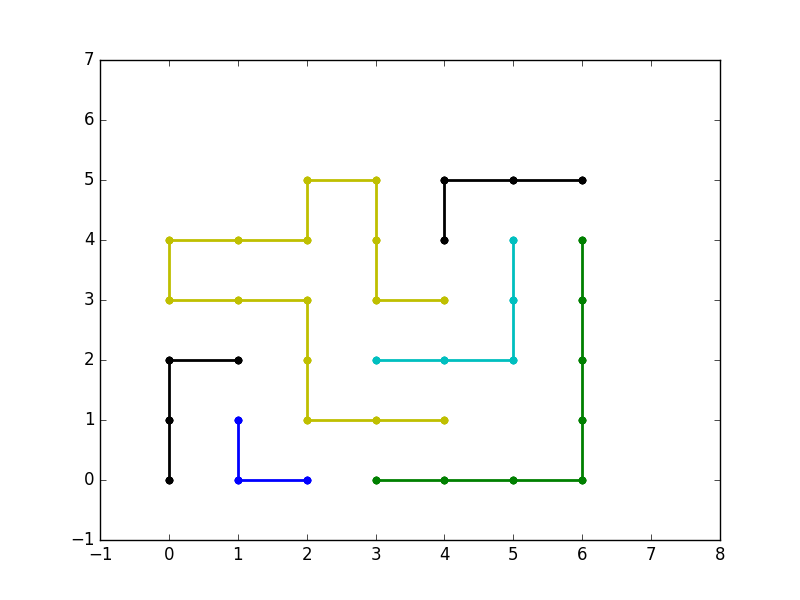
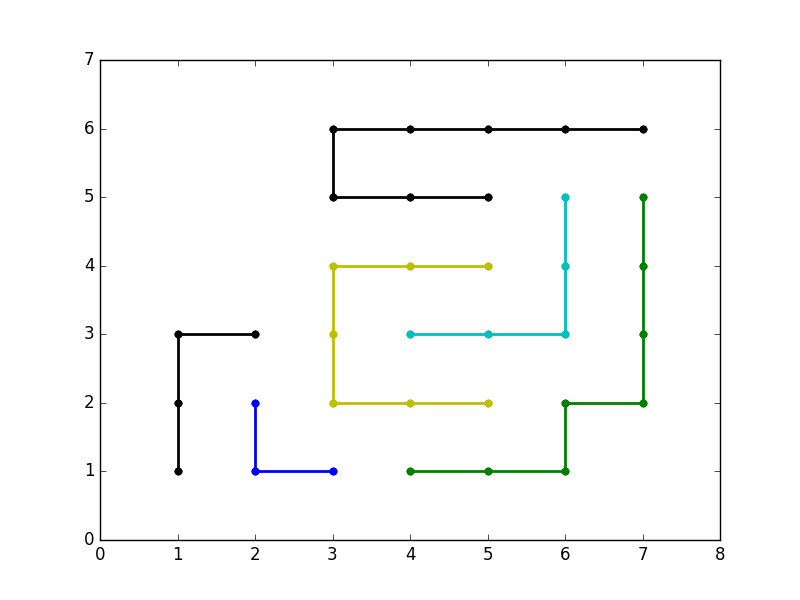
updated example png

diff --git a/src/utils.py b/src/utils.py
@@ -267,8 +267,8 @@ def plot2D(used_vertices, data_info, output_file):
     used_vertices = set(used_vertices)
     plt.figure('Resulting routing')
     n, m = data_info['dim_sizes']
-    plt.ylim([-1, n + 1])
-    plt.xlim([-1, m + 1])
+    plt.ylim([0, n + 1])
+    plt.xlim([0, m + 1])
     colors = ['k', 'b', 'g', 'y', 'c']
     for vertex in used_vertices:
         try:
@@ -282,9 +282,9 @@ def plot2D(used_vertices, data_info, output_file):
                     adj_id = '-'.join(str(x) for x in adj) + '-' + net
                     if adj_id in used_vertices and \
                     vname('S', '-'.join(str(x) for x in point_form), '-'.join(str(x) for x in adj)) in used_vertices:
-                        plt.plot([point_form[1], adj[1]], [point_form[0], adj[0]], \
+                        plt.plot([point_form[1] + 1, adj[1] + 1], [point_form[0] + 1, adj[0] + 1], \
                         color = colors[int(net) % len(colors)], linewidth = 2)
-                    plt.scatter(point_form[1], point_form[0], color = colors[int(net) % len(colors)])
+                    plt.scatter(point_form[1] + 1, point_form[0] + 1, color = colors[int(net) % len(colors)])
         except:
             pass
             #import traceback
